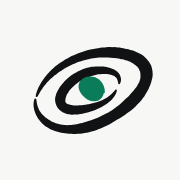
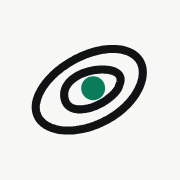
Switch the mark to the pencil loops

diff --git a/index.html b/index.html
@@ -31,9 +31,9 @@
   <meta name="color-scheme" content="light dark">
   <meta name="theme-color" content="#f7f7f5" media="(prefers-color-scheme: light)">
   <meta name="theme-color" content="#0c0d0f" media="(prefers-color-scheme: dark)">
-  <link rel="icon" href="assets/img/favicon-32.png?v=4" sizes="32x32" type="image/png">
-  <link rel="icon" href="assets/img/favicon.svg?v=4" type="image/svg+xml">
-  <link rel="apple-touch-icon" href="assets/img/apple-touch-icon.png?v=4">
+  <link rel="icon" href="assets/img/favicon-32.png?v=5" sizes="32x32" type="image/png">
+  <link rel="icon" href="assets/img/favicon.svg?v=5" type="image/svg+xml">
+  <link rel="apple-touch-icon" href="assets/img/apple-touch-icon.png?v=5">
   <meta name="apple-mobile-web-app-title" content="Emil Partow">
 
   <!-- Apply the saved theme before first paint to avoid a flash -->
@@ -128,9 +128,9 @@
     <nav class="nav glass" aria-label="Main">
       <a class="nav-brand" href="#top" aria-label="Emil Partow, back to top">
         <svg viewBox="0 0 64 64" width="26" height="26" aria-hidden="true" focusable="false">
-          <path fill="currentColor" d="M8.69,34.88 L9.06,34.26 L9.40,33.64 L9.77,33.01 L10.14,32.38 L10.56,31.75 L10.99,31.12 L11.43,30.47 L11.93,29.85 L12.45,29.23 L12.99,28.60 L13.57,27.98 L14.18,27.37 L14.84,26.78 L15.51,26.19 L16.20,25.61 L16.95,25.07 L17.68,24.49 L18.45,23.94 L19.25,23.41 L20.06,22.89 L20.88,22.37 L21.71,21.86 L22.59,21.41 L23.47,20.97 L24.36,20.54 L25.28,20.18 L26.18,19.80 L27.10,19.48 L28.02,19.17 L28.94,18.88 L29.86,18.62 L30.77,18.39 L31.68,18.20 L32.57,18.01 L33.46,17.86 L34.34,17.74 L35.20,17.62 L36.06,17.59 L36.91,17.58 L37.73,17.55 L38.54,17.52 L39.34,17.53 L40.12,17.60 L40.89,17.64 L41.65,17.68 L42.38,17.80 L43.12,17.83 L43.83,17.90 L44.53,18.05 L45.22,18.14 L45.89,18.28 L46.56,18.36 L47.20,18.52 L47.81,18.74 L48.42,18.90 L48.99,19.16 L49.55,19.37 L50.08,19.60 L50.57,19.88 L51.05,20.14 L51.48,20.44 L51.88,20.73 L52.25,21.03 L52.60,21.32 L52.93,21.61 L53.22,21.90 L53.47,22.22 L53.68,22.54 L53.83,22.89 L53.95,23.23 L54.12,23.56 L54.27,23.91 L54.32,24.29 L54.42,24.68 L54.40,25.11 L54.43,25.55 L54.43,26.03 L54.42,26.54 L54.30,27.07 L54.15,27.62 L53.96,28.18 L53.74,28.77 L53.38,29.32 L53.09,29.94 L52.71,30.53 L52.29,31.12 L51.80,31.69 L51.34,32.31 L50.80,32.88 L50.28,33.49 L49.73,34.10 L49.19,34.74 L48.54,35.29 L47.89,35.86 L47.28,36.47 L46.66,37.11 L46.01,37.72 L45.34,38.34 L44.61,38.88 L43.86,39.42 L43.11,39.97 L42.39,40.56 L41.63,41.12 L40.82,41.61 L39.99,42.07 L39.14,42.49 L38.28,42.92 L37.43,43.37 L36.58,43.79 L35.70,44.17 L34.82,44.55 L33.93,44.89 L33.04,45.20 L32.15,45.50 L31.26,45.81 L30.38,46.11 L29.50,46.37 L28.63,46.63 L27.76,46.82 L26.89,46.99 L26.04,47.19 L25.20,47.34 L24.38,47.47 L23.56,47.55 L22.76,47.60 L21.98,47.62 L21.22,47.59 L20.48,47.57 L19.77,47.46 L19.08,47.36 L18.42,47.19 L17.78,47.01 L17.16,46.86 L16.57,46.66 L16.01,46.43 L15.46,46.19 L14.93,45.95 L14.44,45.67 L13.98,45.36 L13.50,45.09 L13.05,44.80 L12.61,44.49 L12.20,44.17 L11.80,43.83 L11.42,43.48 L11.08,43.09 L10.72,42.73 L10.36,42.36 L10.07,41.94 L9.79,41.52 L9.52,41.08 L9.29,40.62 L9.06,40.15 L8.87,39.66 L8.69,39.16 L8.56,38.63 L8.45,38.08 L8.33,37.52 L8.25,36.93 L8.16,36.29 L8.16,36.29 L8.14,36.12 L8.05,35.96 L7.91,35.85 L7.73,35.80 L7.56,35.82 L7.40,35.91 L7.29,36.05 L7.24,36.23 L7.24,36.23 L7.06,36.87 L6.96,37.54 L6.90,38.20 L6.91,38.86 L6.98,39.50 L7.07,40.13 L7.20,40.76 L7.36,41.37 L7.57,41.96 L7.80,42.54 L8.06,43.11 L8.37,43.66 L8.65,44.22 L8.97,44.77 L9.37,45.27 L9.76,45.77 L10.19,46.26 L10.64,46.73 L11.12,47.19 L11.62,47.64 L12.15,48.08 L12.74,48.44 L13.35,48.81 L13.98,49.17 L14.63,49.50 L15.32,49.81 L16.04,50.09 L16.77,50.37 L17.55,50.59 L18.35,50.76 L19.17,50.95 L20.02,51.09 L20.88,51.25 L21.77,51.34 L22.69,51.43 L23.62,51.48 L24.58,51.50 L25.55,51.51 L26.54,51.48 L27.55,51.44 L28.56,51.29 L29.57,51.13 L30.60,50.96 L31.62,50.73 L32.65,50.49 L33.68,50.20 L34.69,49.86 L35.68,49.48 L36.67,49.07 L37.66,48.66 L38.63,48.21 L39.59,47.77 L40.55,47.30 L41.47,46.79 L42.37,46.23 L43.26,45.69 L44.15,45.14 L45.05,44.63 L45.96,44.13 L46.81,43.56 L47.64,42.95 L48.44,42.34 L49.27,41.76 L50.09,41.17 L50.89,40.57 L51.66,39.93 L52.35,39.22 L53.01,38.49 L53.72,37.82 L54.37,37.10 L55.00,36.38 L55.55,35.60 L56.12,34.84 L56.60,34.04 L57.07,33.25 L57.52,32.45 L57.98,31.68 L58.30,30.84 L58.67,30.04 L58.98,29.23 L59.24,28.41 L59.44,27.58 L59.67,26.76 L59.80,25.92 L59.88,25.08 L59.80,24.25 L59.75,23.41 L59.57,22.60 L59.38,21.80 L59.12,21.01 L58.73,20.28 L58.29,19.60 L57.82,18.95 L57.30,18.33 L56.77,17.74 L56.19,17.20 L55.58,16.70 L54.92,16.26 L54.25,15.86 L53.54,15.51 L52.84,15.18 L52.11,14.90 L51.38,14.61 L50.65,14.35 L49.88,14.18 L49.13,13.94 L48.36,13.80 L47.58,13.63 L46.81,13.42 L46.01,13.30 L45.21,13.16 L44.39,13.12 L43.57,13.03 L42.74,12.92 L41.89,12.95 L41.03,12.92 L40.15,12.94 L39.27,13.01 L38.37,13.07 L37.46,13.13 L36.53,13.22 L35.60,13.39 L34.66,13.58 L33.70,13.73 L32.73,13.93 L31.75,14.14 L30.76,14.38 L29.77,14.67 L28.78,14.97 L27.78,15.30 L26.78,15.67 L25.79,16.06 L24.81,16.51 L23.82,16.94 L22.87,17.46 L21.91,17.95 L20.97,18.48 L20.06,19.06 L19.14,19.62 L18.25,20.20 L17.41,20.84 L16.59,21.49 L15.80,22.17 L15.04,22.84 L14.34,23.57 L13.66,24.28 L13.01,25.01 L12.41,25.76 L11.83,26.49 L11.29,27.23 L10.77,27.96 L10.30,28.71 L9.87,29.46 L9.45,30.19 L9.09,30.93 L8.76,31.67 L8.46,32.40 L8.22,33.13 L8.01,33.86 L7.89,34.59 L7.89,34.59 L7.86,34.75 L7.90,34.92 L8.00,35.05 L8.15,35.14 L8.31,35.16 L8.47,35.12 L8.61,35.02 L8.69,34.88 Z"/>
-          <path fill="currentColor" d="M43.19,32.01 L42.93,32.29 L42.68,32.56 L42.44,32.85 L42.18,33.14 L41.90,33.42 L41.63,33.71 L41.32,33.98 L41.01,34.26 L40.66,34.52 L40.31,34.78 L39.96,35.06 L39.59,35.32 L39.21,35.57 L38.81,35.81 L38.40,36.02 L37.98,36.25 L37.56,36.45 L37.14,36.67 L36.69,36.83 L36.26,37.01 L35.81,37.15 L35.36,37.30 L34.92,37.44 L34.49,37.60 L34.04,37.71 L33.59,37.82 L33.15,37.91 L32.71,38.02 L32.27,38.09 L31.84,38.21 L31.42,38.31 L30.98,38.37 L30.55,38.44 L30.13,38.54 L29.70,38.58 L29.28,38.64 L28.86,38.71 L28.43,38.74 L28.02,38.77 L27.60,38.79 L27.19,38.82 L26.78,38.86 L26.38,38.84 L25.99,38.90 L25.60,38.89 L25.22,38.88 L24.84,38.85 L24.48,38.78 L24.14,38.73 L23.80,38.72 L23.48,38.66 L23.18,38.60 L22.90,38.49 L22.63,38.45 L22.40,38.34 L22.17,38.26 L21.97,38.17 L21.78,38.07 L21.64,37.96 L21.50,37.86 L21.39,37.76 L21.28,37.66 L21.23,37.54 L21.13,37.45 L21.10,37.33 L21.07,37.21 L21.03,37.09 L21.02,36.95 L21.01,36.81 L21.03,36.65 L21.08,36.49 L21.08,36.31 L21.13,36.12 L21.13,35.90 L21.11,35.67 L21.22,35.44 L21.30,35.20 L21.39,34.94 L21.49,34.68 L21.56,34.38 L21.71,34.11 L21.84,33.82 L22.02,33.54 L22.23,33.28 L22.39,32.97 L22.57,32.67 L22.78,32.38 L22.99,32.07 L23.24,31.80 L23.48,31.51 L23.75,31.24 L24.02,30.96 L24.30,30.68 L24.62,30.43 L24.92,30.15 L25.22,29.88 L25.53,29.61 L25.85,29.33 L26.19,29.08 L26.52,28.82 L26.87,28.56 L27.23,28.33 L27.56,28.03 L27.96,27.84 L28.35,27.63 L28.76,27.46 L29.14,27.23 L29.54,27.05 L29.94,26.86 L30.36,26.72 L30.75,26.52 L31.16,26.37 L31.57,26.22 L31.99,26.09 L32.38,25.90 L32.80,25.81 L33.20,25.67 L33.60,25.54 L34.00,25.39 L34.39,25.28 L34.80,25.22 L35.19,25.12 L35.59,25.04 L35.98,25.01 L36.37,24.98 L36.75,24.95 L37.13,24.92 L37.51,24.92 L37.88,24.92 L38.24,24.89 L38.60,24.88 L38.95,24.91 L39.30,24.92 L39.64,24.94 L39.97,24.98 L40.29,25.03 L40.61,25.06 L40.92,25.13 L41.21,25.20 L41.50,25.28 L41.76,25.38 L42.01,25.50 L42.26,25.59 L42.49,25.70 L42.72,25.80 L42.92,25.93 L43.11,26.07 L43.28,26.22 L43.44,26.38 L43.62,26.52 L43.77,26.69 L43.89,26.87 L44.01,27.07 L44.10,27.29 L44.18,27.51 L44.27,27.75 L44.34,28.01 L44.40,28.29 L44.44,28.58 L44.51,28.92 L44.51,28.92 L44.52,29.08 L44.59,29.24 L44.71,29.35 L44.87,29.41 L45.04,29.40 L45.19,29.33 L45.30,29.21 L45.36,29.05 L45.36,29.05 L45.54,28.73 L45.64,28.37 L45.72,28.01 L45.77,27.64 L45.79,27.27 L45.75,26.90 L45.68,26.53 L45.59,26.17 L45.46,25.82 L45.32,25.47 L45.17,25.11 L44.95,24.80 L44.71,24.49 L44.45,24.21 L44.17,23.94 L43.88,23.66 L43.56,23.42 L43.24,23.18 L42.88,23.00 L42.51,22.83 L42.15,22.65 L41.76,22.50 L41.38,22.35 L40.99,22.20 L40.58,22.08 L40.17,21.98 L39.75,21.88 L39.33,21.78 L38.90,21.72 L38.47,21.65 L38.03,21.58 L37.58,21.55 L37.13,21.54 L36.67,21.52 L36.21,21.53 L35.75,21.54 L35.28,21.57 L34.80,21.58 L34.31,21.59 L33.83,21.66 L33.33,21.70 L32.83,21.72 L32.32,21.79 L31.81,21.86 L31.32,22.01 L30.79,22.08 L30.29,22.24 L29.78,22.40 L29.28,22.57 L28.76,22.73 L28.27,22.96 L27.77,23.17 L27.29,23.41 L26.79,23.62 L26.33,23.90 L25.86,24.17 L25.42,24.48 L24.92,24.69 L24.48,24.99 L24.03,25.27 L23.59,25.57 L23.18,25.89 L22.76,26.20 L22.36,26.52 L21.97,26.85 L21.59,27.18 L21.25,27.56 L20.91,27.92 L20.57,28.27 L20.26,28.65 L19.94,29.00 L19.65,29.38 L19.33,29.74 L19.04,30.11 L18.75,30.48 L18.46,30.85 L18.25,31.26 L18.03,31.66 L17.78,32.05 L17.59,32.47 L17.35,32.86 L17.16,33.28 L17.00,33.71 L16.86,34.15 L16.78,34.61 L16.62,35.05 L16.51,35.50 L16.49,35.98 L16.46,36.45 L16.53,36.93 L16.61,37.40 L16.71,37.87 L16.85,38.34 L17.01,38.80 L17.23,39.24 L17.49,39.66 L17.74,40.08 L18.07,40.45 L18.40,40.81 L18.77,41.14 L19.16,41.44 L19.57,41.70 L19.99,41.95 L20.43,42.16 L20.88,42.36 L21.35,42.50 L21.81,42.66 L22.30,42.73 L22.78,42.83 L23.27,42.88 L23.75,42.96 L24.24,42.97 L24.73,42.94 L25.22,42.93 L25.70,42.90 L26.19,42.86 L26.67,42.87 L27.15,42.77 L27.62,42.72 L28.10,42.65 L28.56,42.55 L29.03,42.44 L29.49,42.32 L29.95,42.23 L30.41,42.12 L30.87,41.97 L31.33,41.88 L31.79,41.73 L32.25,41.58 L32.71,41.45 L33.19,41.32 L33.64,41.13 L34.11,40.96 L34.57,40.76 L35.04,40.55 L35.50,40.33 L35.99,40.15 L36.45,39.91 L36.92,39.67 L37.38,39.40 L37.85,39.15 L38.29,38.84 L38.75,38.58 L39.20,38.28 L39.64,37.98 L40.06,37.64 L40.47,37.31 L40.87,36.98 L41.26,36.63 L41.64,36.28 L41.99,35.91 L42.29,35.51 L42.60,35.14 L42.87,34.74 L43.13,34.35 L43.35,33.95 L43.54,33.55 L43.71,33.15 L43.83,32.74 L43.90,32.34 L43.90,32.34 L43.93,32.19 L43.91,32.04 L43.83,31.91 L43.71,31.82 L43.56,31.78 L43.41,31.81 L43.28,31.88 L43.19,32.01 Z"/>
-          <path class="nav-brand-dot" d="M38.16,33.35 L37.98,33.98 L37.73,34.61 L37.38,35.21 L36.93,35.77 L36.38,36.25 L35.72,36.64 L34.97,36.91 L34.17,37.04 L33.35,37.03 L32.53,36.89 L31.75,36.64 L31.02,36.29 L30.35,35.88 L29.75,35.42 L29.20,34.93 L28.71,34.41 L28.26,33.86 L27.86,33.29 L27.51,32.68 L27.22,32.04 L27.02,31.37 L26.92,30.69 L26.92,29.99 L27.05,29.31 L27.30,28.65 L27.66,28.05 L28.12,27.51 L28.68,27.04 L29.31,26.66 L29.99,26.35 L30.73,26.14 L31.49,26.02 L32.28,25.99 L33.06,26.06 L33.84,26.23 L34.59,26.49 L35.29,26.84 L35.93,27.27 L36.50,27.77 L37.00,28.31 L37.42,28.89 L37.78,29.50 L38.07,30.12 L38.29,30.77 L38.46,31.42 L38.56,32.10 L38.58,32.79 L38.51,33.48 Z"/>
+          <path fill="none" stroke="currentColor" stroke-width="3.6" stroke-linecap="round" stroke-linejoin="round" d="M8.18,37.56 L8.36,36.67 L8.60,35.77 L8.91,34.86 L9.28,33.94 L9.72,33.02 L10.21,32.10 L10.76,31.18 L11.36,30.26 L12.02,29.35 L12.73,28.44 L13.49,27.54 L14.31,26.65 L15.17,25.76 L16.07,24.89 L17.03,24.04 L18.02,23.20 L19.06,22.38 L20.14,21.58 L21.27,20.80 L22.43,20.05 L23.62,19.32 L24.86,18.63 L26.12,17.97 L27.41,17.35 L28.72,16.76 L30.05,16.22 L31.41,15.73 L32.77,15.28 L34.13,14.89 L35.50,14.55 L36.86,14.27 L38.21,14.05 L39.54,13.89 L40.85,13.80 L42.13,13.76 L43.37,13.79 L44.57,13.89 L45.72,14.04 L46.82,14.26 L47.87,14.54 L48.85,14.88 L49.77,15.27 L50.62,15.71 L51.40,16.21 L52.12,16.75 L52.76,17.33 L53.33,17.95 L53.83,18.61 L54.26,19.30 L54.62,20.03 L54.92,20.77 L55.15,21.54 L55.32,22.33 L55.42,23.14 L55.47,23.97 L55.45,24.81 L55.39,25.65 L55.26,26.52 L55.09,27.39 L54.86,28.26 L54.58,29.15 L54.24,30.04 L53.86,30.94 L53.42,31.84 L52.93,32.75 L52.39,33.65 L51.80,34.56 L51.15,35.47 L50.44,36.38 L49.69,37.28 L48.87,38.17 L48.01,39.06 L47.09,39.93 L46.11,40.79 L45.09,41.63 L44.01,42.45 L42.89,43.24 L41.73,44.00 L40.52,44.74 L39.28,45.43 L38.01,46.09 L36.70,46.70 L35.38,47.27 L34.04,47.79 L32.68,48.26 L31.32,48.68 L29.96,49.04 L28.60,49.35 L27.25,49.60 L25.92,49.80 L24.61,49.94 L23.32,50.01 L22.06,50.03 L20.84,50.00 L19.66,49.91 L18.51,49.76 L17.41,49.55 L16.36,49.30 L15.37,48.99 L14.42,48.64 L13.54,48.23 L12.71,47.78 L11.94,47.28 L11.23,46.74 L10.59,46.16 L10.01,45.54 L9.50,44.89 L9.06,44.20 L8.69,43.48 L8.38,42.72 L8.15,41.94 L7.98,41.14 L7.89,40.31 L7.87,39.46 L7.91,38.59 L8.03,37.71 L8.22,36.81 L8.47,35.90 L8.79,34.99 L9.17,34.07"/>
+          <path fill="none" stroke="currentColor" stroke-width="3.6" stroke-linecap="round" stroke-linejoin="round" d="M44.80,30.64 L44.57,31.09 L44.31,31.54 L44.02,31.99 L43.69,32.43 L43.34,32.88 L42.96,33.31 L42.56,33.74 L42.13,34.17 L41.68,34.59 L41.20,35.00 L40.71,35.40 L40.20,35.80 L39.68,36.18 L39.14,36.56 L38.58,36.93 L38.00,37.29 L37.41,37.63 L36.80,37.97 L36.18,38.30 L35.54,38.61 L34.89,38.90 L34.23,39.18 L33.56,39.44 L32.87,39.68 L32.18,39.89 L31.49,40.09 L30.79,40.25 L30.10,40.39 L29.41,40.49 L28.73,40.57 L28.07,40.61 L27.42,40.62 L26.79,40.60 L26.18,40.54 L25.60,40.46 L25.05,40.34 L24.53,40.18 L24.05,40.01 L23.60,39.80 L23.19,39.57 L22.82,39.32 L22.48,39.04 L22.17,38.76 L21.90,38.45 L21.66,38.14 L21.45,37.81 L21.26,37.47 L21.10,37.13 L20.97,36.78 L20.85,36.43 L20.75,36.07 L20.67,35.71 L20.61,35.34 L20.56,34.97 L20.53,34.60 L20.52,34.21 L20.52,33.82 L20.54,33.42 L20.59,33.02 L20.66,32.61 L20.75,32.18 L20.88,31.75 L21.03,31.32 L21.22,30.87 L21.45,30.42 L21.71,29.97 L22.01,29.52 L22.35,29.06 L22.73,28.61 L23.15,28.16 L23.61,27.72 L24.10,27.29 L24.62,26.88 L25.18,26.48 L25.77,26.10 L26.37,25.73 L27.00,25.39 L27.65,25.07 L28.31,24.77 L28.98,24.50 L29.65,24.25 L30.33,24.03 L31.01,23.83 L31.68,23.65 L32.35,23.49 L33.02,23.35 L33.68,23.24 L34.34,23.14 L34.98,23.06 L35.62,23.00 L36.25,22.95 L36.87,22.92 L37.49,22.91 L38.09,22.91 L38.69,22.93 L39.27,22.97 L39.85,23.03 L40.41,23.10 L40.95,23.20 L41.48,23.32 L41.99,23.46 L42.48,23.63 L42.94,23.82 L43.38,24.03 L43.78,24.27 L44.15,24.53 L44.48,24.82 L44.77,25.13 L45.02,25.46 L45.23,25.82 L45.39,26.19 L45.51,26.58 L45.58,26.99 L45.60,27.40 L45.58,27.83 L45.52,28.27 L45.42,28.71 L45.28,29.16 L45.10,29.61 L44.89,30.06"/>
+          <circle class="nav-brand-dot" cx="33.4" cy="31.2" r="5.3"/>
         </svg>
       </a>
       <ul class="nav-links">

diff --git a/404.html b/404.html
@@ -5,9 +5,9 @@
   <meta name="viewport" content="width=device-width, initial-scale=1">
   <title>404 · Emil Partow</title>
   <meta name="robots" content="noindex">
-  <link rel="icon" href="/assets/img/favicon-32.png?v=4" sizes="32x32" type="image/png">
-  <link rel="icon" href="/assets/img/favicon.svg?v=4" type="image/svg+xml">
-  <link rel="apple-touch-icon" href="/assets/img/apple-touch-icon.png?v=4">
+  <link rel="icon" href="/assets/img/favicon-32.png?v=5" sizes="32x32" type="image/png">
+  <link rel="icon" href="/assets/img/favicon.svg?v=5" type="image/svg+xml">
+  <link rel="apple-touch-icon" href="/assets/img/apple-touch-icon.png?v=5">
   <script>(function(){try{var t=localStorage.getItem("theme");if(t)document.documentElement.dataset.theme=t;}catch(e){}})();</script>
   <link rel="stylesheet" href="/assets/css/style.css?v=20261110u">
   <style>
